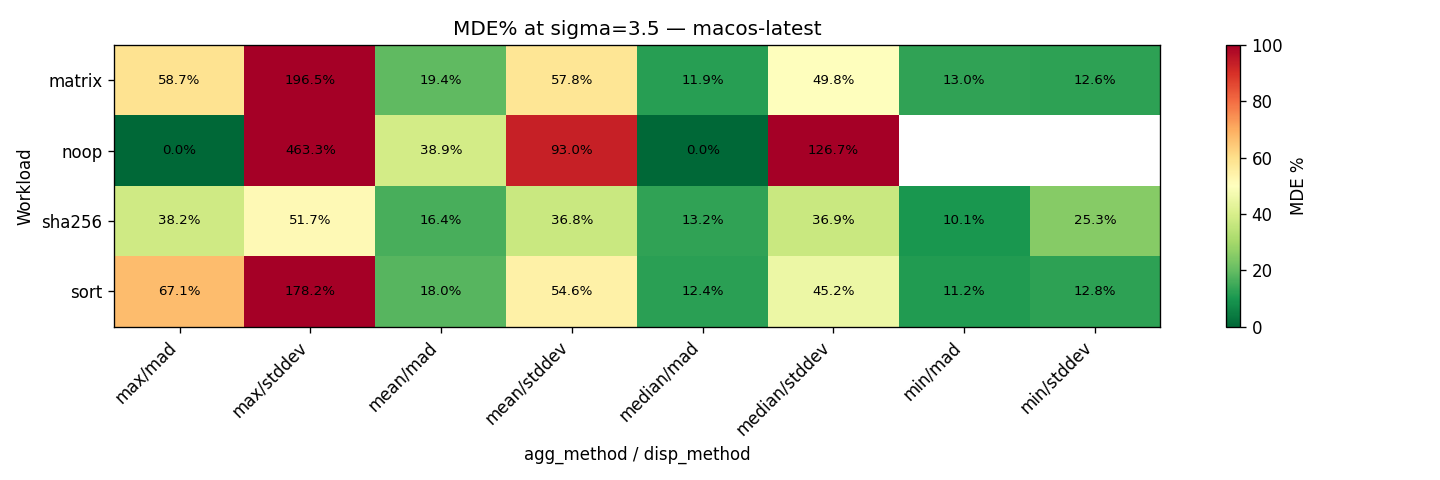
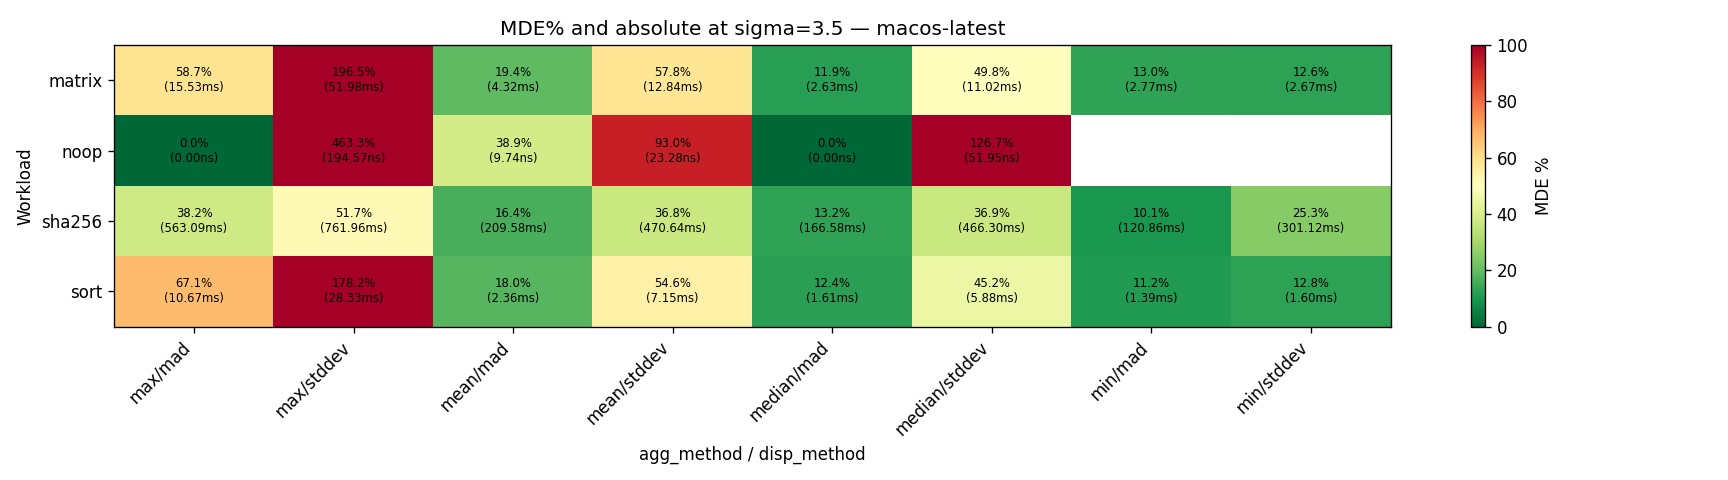
update with absolutes

diff --git a/scripts/analyze-variance.py b/scripts/analyze-variance.py
@@ -135,9 +135,21 @@ def between_runner_cov(agg_df: pd.DataFrame) -> pd.DataFrame:
     return pd.DataFrame(rows)
 
 
+def format_duration(ms: float) -> str:
+    """Format milliseconds with appropriate unit (s/ms/µs/ns)."""
+    if ms >= 1000:
+        return f"{ms / 1000:.2f}s"
+    if ms >= 1:
+        return f"{ms:.2f}ms"
+    if ms >= 0.001:
+        return f"{ms * 1000:.2f}µs"
+    return f"{ms * 1e6:.2f}ns"
+
+
 def compute_mde(between_df: pd.DataFrame) -> pd.DataFrame:
     """
     MDE% = sigma * dispersion / center * 100
+    MDE_abs = sigma * dispersion (in ms)
     """
     rows = []
     for _, row in between_df.iterrows():
@@ -150,6 +162,7 @@ def compute_mde(between_df: pd.DataFrame) -> pd.DataFrame:
                 continue
             for sigma in SIGMAS:
                 mde_pct = sigma * disp / center * 100.0
+                mde_abs_ms = sigma * disp
                 rows.append({
                     "os": row["os"],
                     "workload": row["workload"],
@@ -157,6 +170,8 @@ def compute_mde(between_df: pd.DataFrame) -> pd.DataFrame:
                     "disp_method": disp_method,
                     "sigma": sigma,
                     "mde_pct": mde_pct,
+                    "mde_abs_ms": mde_abs_ms,
+                    "center_ms": center,
                     "inter_cov_pct": row["inter_cov_pct"],
                 })
     return pd.DataFrame(rows)
@@ -210,8 +225,9 @@ def plot_mde_heatmap(mde_df: pd.DataFrame, output_dir: str) -> None:
         subset = subset.copy()
         subset["config"] = subset["agg_method"] + "/" + subset["disp_method"]
         pivot = subset.pivot_table(index="workload", columns="config", values="mde_pct")
+        pivot_abs = subset.pivot_table(index="workload", columns="config", values="mde_abs_ms")
 
-        fig, ax = plt.subplots(figsize=(max(8, len(pivot.columns) * 1.5), 4))
+        fig, ax = plt.subplots(figsize=(max(10, len(pivot.columns) * 1.8), 4))
         im = ax.imshow(pivot.values, aspect="auto", cmap="RdYlGn_r", vmin=0, vmax=100)
         ax.set_xticks(range(len(pivot.columns)))
         ax.set_xticklabels(pivot.columns, rotation=45, ha="right")
@@ -220,10 +236,12 @@ def plot_mde_heatmap(mde_df: pd.DataFrame, output_dir: str) -> None:
         for r in range(len(pivot.index)):
             for c in range(len(pivot.columns)):
                 val = pivot.values[r, c]
+                abs_val = pivot_abs.values[r, c]
                 if not math.isnan(val):
-                    ax.text(c, r, f"{val:.1f}%", ha="center", va="center", fontsize=8)
+                    label = f"{val:.1f}%\n({format_duration(abs_val)})"
+                    ax.text(c, r, label, ha="center", va="center", fontsize=7)
         plt.colorbar(im, ax=ax, label="MDE %")
-        ax.set_title(f"MDE% at sigma=3.5 — {os_name}")
+        ax.set_title(f"MDE% and absolute at sigma=3.5 — {os_name}")
         ax.set_xlabel("agg_method / disp_method")
         ax.set_ylabel("Workload")
         fig.tight_layout()
@@ -242,7 +260,8 @@ def plot_box_plots(agg_df: pd.DataFrame, output_dir: str) -> None:
         if len(workloads_present) == 1:
             axes = [axes]
         for ax, wl in zip(axes, workloads_present):
-            data_by_agg = [subset[subset["agg_method"] == a]["value_ms"].dropna().values
+            wl_subset = subset[subset["workload"] == wl]
+            data_by_agg = [wl_subset[wl_subset["agg_method"] == a]["value_ms"].dropna().values
                            for a in AGGREGATION_METHODS]
             ax.boxplot(data_by_agg, labels=AGGREGATION_METHODS, showfliers=True)
             ax.set_title(wl)

diff --git a/docs/ci-variance-experiment/README.md b/docs/ci-variance-experiment/README.md
@@ -38,16 +38,16 @@ The `noop` workload exists to measure pure timing overhead and is expected to be
 
 | OS | Workload | Best CoV (%) | Best Aggregation | Verdict |
 |---|---|---|---|---|
-| macOS | sha256 | 7.04% | min | GREEN (<10%) |
-| macOS | sort | 3.65% | min | GREEN |
-| macOS | matrix | 3.58% | min | GREEN |
-| macOS | noop | 25.47% | mean | RED (>20%) |
-| Ubuntu | sha256 | 7.23% | min | GREEN |
-| Ubuntu | sort | 3.83% | min | GREEN |
-| Ubuntu | matrix | 14.43% | max | YELLOW (10-20%) |
-| Ubuntu | noop | 9.71% | max | GREEN |
+| macOS | sha256 | 7.04% | min | 🟢 (<10%) |
+| macOS | sort | 3.65% | min | 🟢 |
+| macOS | matrix | 3.58% | min | 🟢 |
+| macOS | noop | 25.47% | mean | 🔴 (>20%) |
+| Ubuntu | sha256 | 7.23% | min | 🟢 |
+| Ubuntu | sort | 3.83% | min | 🟢 |
+| Ubuntu | matrix | 14.43% | max | 🟡 (10-20%) |
+| Ubuntu | noop | 9.71% | max | 🟢 |
 
-**Thresholds**: GREEN < 10%, YELLOW 10-20%, RED > 20%.
+**Thresholds**: 🟢 < 10%, 🟡 10-20%, 🔴 > 20%.
 
 ### Inter-Runner CoV by Aggregation Method
 
@@ -86,7 +86,7 @@ This measures how much a single runner's 30 reps vary (the intra-machine noise).
 
 ### MDE Heatmaps (sigma=3.5)
 
-The Minimum Detectable Effect is computed as `sigma * dispersion / center * 100%`. Lower is better -- it means git-perf can detect smaller regressions.
+The Minimum Detectable Effect is computed as `sigma * dispersion / center * 100%` (percentage) and `sigma * dispersion` (absolute). Lower is better -- it means git-perf can detect smaller regressions. Each cell shows the percentage MDE and the absolute value in parentheses.
 
 **Ubuntu:**
 
@@ -159,9 +159,11 @@ All macOS runners report "Apple M1 (Virtual)" with 3 vCPUs. Despite hardware hom
 
 ### 5. More reps help on macOS, plateau quickly on Ubuntu
 
+"Repetitions" here means the number of times a benchmark is run **within a single CI job** (intra-runner). More repetitions give the `min` aggregation more chances to capture a clean, uncontested run, reducing within-runner noise. This is distinct from `min_measurements` (see below), which controls how many historical data points (across past commits and runners) git-perf requires before computing dispersion statistics.
+
 On macOS, inter-runner CoV (with `min`) drops from ~12% at 1 rep to ~7% at 30 reps. The curve flattens around 15-20 reps. On Ubuntu, CoV is already near its floor at 5 reps.
 
-**Recommendation**: Use at least 15 repetitions for macOS runners, 5-10 for Ubuntu.
+**Recommendation**: Run each benchmark at least 15 times per CI job for macOS runners, 5-10 times for Ubuntu.
 
 ### 6. Sub-millisecond workloads are useless
 
@@ -179,16 +181,21 @@ sigma = 3.5
 min_measurements = 10
 ```
 
+Two distinct sources of variance are controlled separately:
+
+- **Per-job repetitions** (intra-runner): how many times each benchmark runs within a single CI job. More repetitions give `min` aggregation more chances to capture a clean run. Configure this in your benchmark harness or git-perf measurement collection, not in `.gitperfconfig`. Target 15+ reps for macOS, 5-10 for Ubuntu.
+- **`min_measurements`** (inter-runner): the minimum number of historical measurements across past commits that git-perf requires before it will compute dispersion statistics and flag regressions. This guards against false positives when the history is too short to establish a reliable baseline. It does **not** affect within-job repetitions.
+
 With this configuration and the observed noise levels:
 
-| OS | Workload Type | Expected MDE |
-|---|---|---|
-| Ubuntu | CPU-bound (~1s) | ~0.1% (excellent) |
-| Ubuntu | Memory-bound (~16ms) | ~0.3-1% (excellent) |
-| macOS | CPU-bound (~1s) | ~10% (moderate) |
-| macOS | Memory-bound (~16ms) | ~11-13% (moderate) |
+| OS | Workload Type | Expected MDE (%) | Expected MDE (absolute) |
+|---|---|---|---|
+| Ubuntu | CPU-bound (~1s) | ~0.1% (excellent) | ~1ms |
+| Ubuntu | Memory-bound (~16ms) | ~0.3-1% (excellent) | ~0.05-0.16ms |
+| macOS | CPU-bound (~1s) | ~10% (moderate) | ~100ms |
+| macOS | Memory-bound (~16ms) | ~11-13% (moderate) | ~1.8-2.1ms |
 
-**Translation**: On Ubuntu runners, git-perf can reliably detect regressions as small as 1%. On macOS runners, expect to detect regressions of ~10% or larger.
+**Translation**: On Ubuntu runners, git-perf can reliably detect regressions as small as 1% (~1ms for a 1s benchmark). On macOS runners, expect to detect regressions of ~10% or larger (~100ms for a 1s benchmark, ~2ms for a 16ms benchmark).
 
 ## Reproducing the Experiment
 
